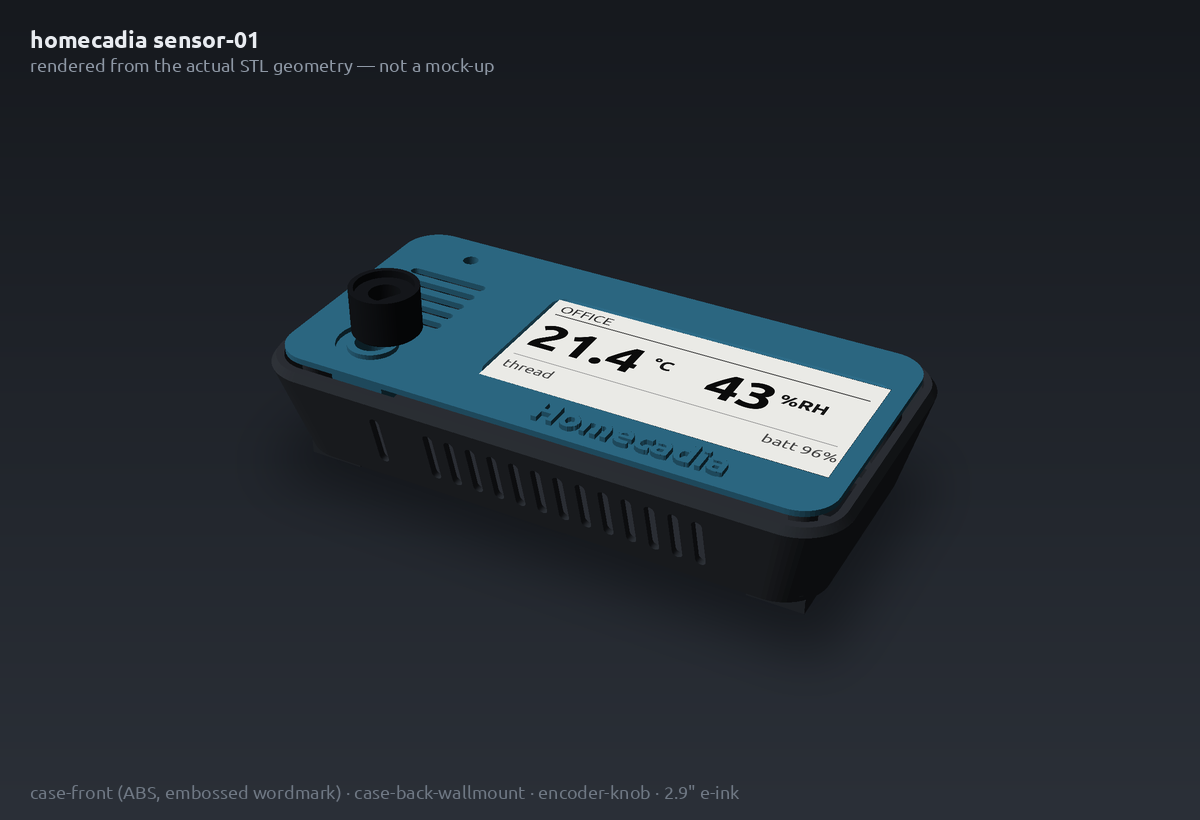
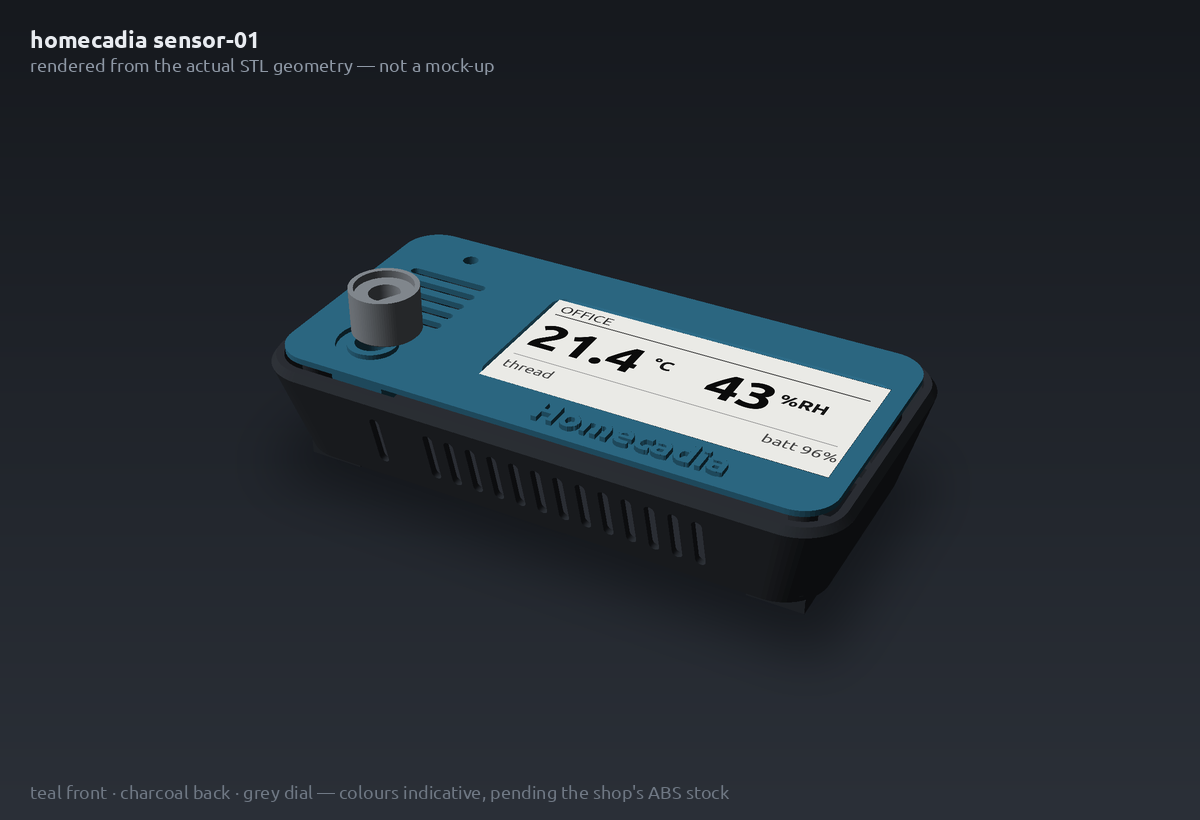
docs(case): grey dial in the render; record colour intent pending vendor stock

Changed region(s): [[0.0308, 0.9451, 0.6167, 0.9756], [0.2775, 0.3049, 0.37, 0.4268]]

diff --git a/hardware/case/README.md b/hardware/case/README.md
@@ -20,9 +20,14 @@ modified; `insert-tray.stl` and `encoder-knob.stl` print as-is from upstream.
 
 Assembled view, rev 3. Rendered directly from the STL geometry in this
 directory — real part shapes and real relative positions, so the proportions,
-the wordmark placement and the aperture framing are accurate. Surface finish,
-colour and the screen contents are illustrative. `preview.png` is the older
-rev 1 image and no longer matches the models.
+the wordmark placement and the aperture framing are accurate. Surface finish
+and the screen contents are illustrative. `preview.png` is the older rev 1
+image and no longer matches the models.
+
+**Colour intent (not yet confirmed against vendor stock):** teal / petrol blue
+front, black or charcoal back, mid-grey dial, tray any colour since it is never
+seen. Whether the shop can mix colours across parts without a real cost penalty
+is an open question in the quote request; if not, everything goes in one colour.
 
 ## Files (`stl/`)
 
